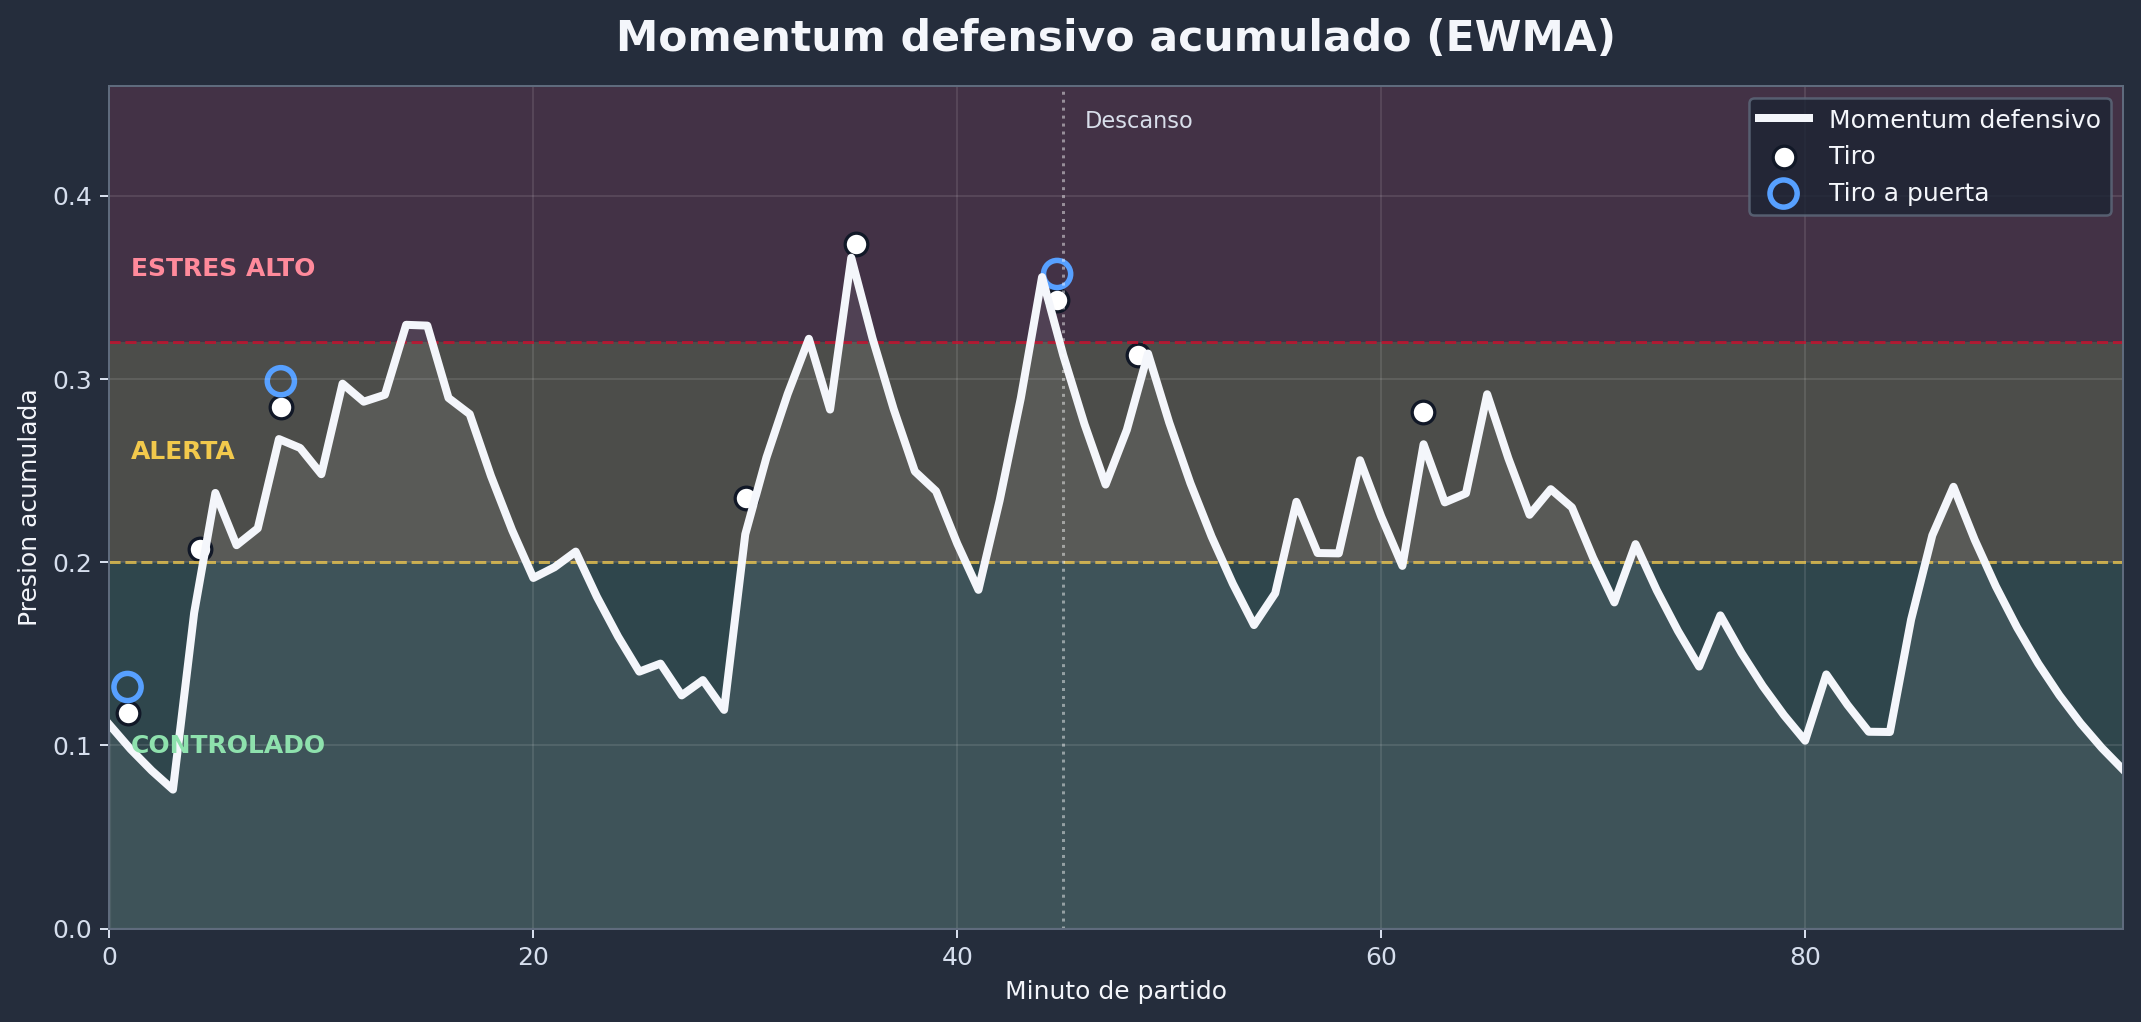
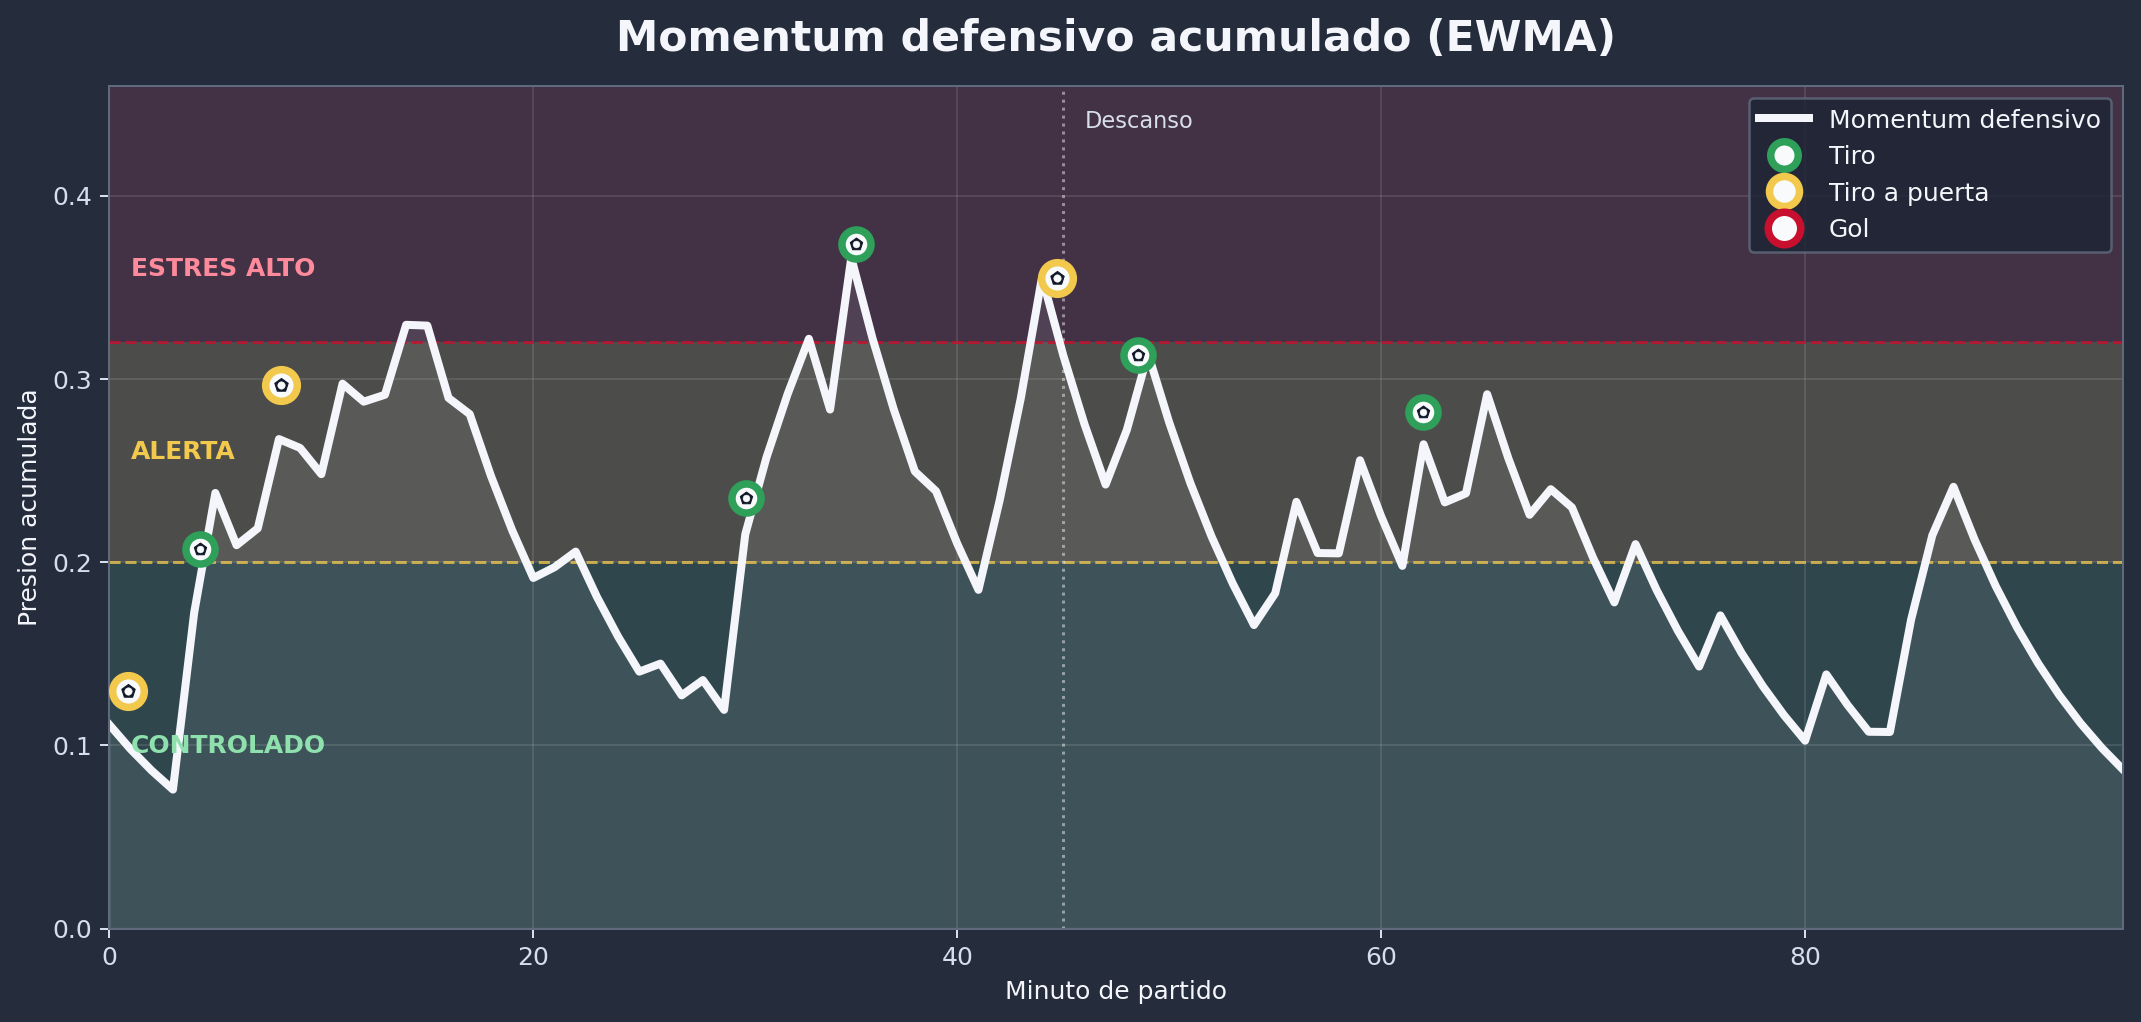
Corregir tramos y eventos del momentum

diff --git a/app/streamlit_app.py b/app/streamlit_app.py
@@ -7273,7 +7273,7 @@ def _chronology_windows(df: pd.DataFrame) -> pd.DataFrame:
     bins = [0, 15, 30, 45, 60, 75, 90, 120]
     labels = ["0-15", "16-30", "31-45", "46-60", "61-75", "76-90", "90+"]
     tmp = df.copy()
-    tmp["tramo"] = pd.cut(tmp["minuto_partido"], bins=bins, labels=labels, include_lowest=True)
+    tmp["tramo"] = pd.cut(tmp["minuto_partido"], bins=bins, labels=labels, include_lowest=True, right=False)
     grouped = (
         tmp.groupby("tramo", observed=False)
         .agg(
@@ -7289,7 +7289,7 @@ def _chronology_windows(df: pd.DataFrame) -> pd.DataFrame:
     )
     timeline = _defensive_momentum_timeline(tmp)
     if not timeline.empty:
-        timeline["tramo"] = pd.cut(timeline["minuto"], bins=bins, labels=labels, include_lowest=True)
+        timeline["tramo"] = pd.cut(timeline["minuto"], bins=bins, labels=labels, include_lowest=True, right=False)
         momentum_windows = (
             timeline.groupby("tramo", observed=False)
             .agg(
@@ -7321,6 +7321,22 @@ def _dominant_value(df: pd.DataFrame, col: str) -> str:
 
 def _window_interval(window: pd.Series) -> tuple[float, float, str]:
     tramo = str(window.get("tramo", "-"))
+    football_windows = {
+        "0-15": (0.0, 15.0),
+        "16-30": (15.0, 30.0),
+        "31-45": (30.0, 45.0),
+        "46-60": (45.0, 60.0),
+        "61-75": (60.0, 75.0),
+        "76-90": (75.0, 90.0),
+        "90+": (90.0, 120.0),
+    }
+    if tramo in football_windows:
+        start, end = football_windows[tramo]
+        return start, end, tramo
+    if tramo.endswith("+"):
+        start_txt = tramo[:-1].strip()
+        start = float(start_txt) if start_txt else 90.0
+        return start, 120.0, tramo
     if "-" not in tramo:
         return 0.0, 120.0, tramo
     start_txt, end_txt = tramo.split("-", 1)
@@ -7405,11 +7421,7 @@ def _render_critical_window_card(df: pd.DataFrame, windows: pd.DataFrame) -> pd.
     if df.empty or windows.empty:
         return None
     top = windows.sort_values("stress", ascending=False).iloc[0]
-    tramo = str(top["tramo"])
-    start_txt = tramo.split("-")[0].replace("+", "")
-    end_txt = tramo.split("-")[1] if "-" in tramo else "120"
-    start = float(start_txt)
-    end = 120.0 if end_txt.endswith("+") else float(end_txt)
+    start, end, tramo = _window_interval(top)
     part = df[df["minuto_partido"].between(start, end, inclusive="left")].copy()
     pattern_txt = _dominant_value(part, "tipologia")
     lane_txt = _dominant_value(part, "carril")
@@ -7475,9 +7487,7 @@ def _plot_defensive_momentum(df: pd.DataFrame, critical: pd.Series | None):
     fig.add_annotation(x=1, y=(MOMENTUM_ALERT_THRESHOLD + MOMENTUM_STRESS_THRESHOLD) / 2, text="ALERTA", showarrow=False, font=dict(color="#f2c94c", size=11), bgcolor="rgba(32,37,50,0.54)")
     fig.add_annotation(x=1, y=min(y_upper - 0.025, MOMENTUM_STRESS_THRESHOLD + 0.035), text="ESTRES ALTO", showarrow=False, font=dict(color="#ff8a9b", size=11), bgcolor="rgba(32,37,50,0.54)")
     if critical is not None and "tramo" in critical:
-        tramo = str(critical["tramo"])
-        start = float(tramo.split("-")[0].replace("+", ""))
-        end = 120.0 if "+" in tramo else float(tramo.split("-")[1])
+        start, end, _ = _window_interval(critical)
         fig.add_vrect(x0=start, x1=end, fillcolor="rgba(200,16,46,0.08)", line_width=0, layer="below")
     fig.add_trace(
         go.Scatter(
@@ -7491,26 +7501,44 @@ def _plot_defensive_momentum(df: pd.DataFrame, critical: pd.Series | None):
             name="Momentum defensivo",
         )
     )
+    def _event_flag(column: str) -> pd.Series:
+        return pd.to_numeric(df.get(column, pd.Series(0, index=df.index)), errors="coerce").fillna(0).gt(0)
+
+    goal_mask = _event_flag("es_gol")
+    shot_on_target_mask = _event_flag("tipo_finalizacion_tiro_puerta") & ~goal_mask
+    shot_mask = _event_flag("tipo_finalizacion_tiro") & ~shot_on_target_mask & ~goal_mask
     marker_specs = [
-        ("tipo_finalizacion_tiro", "Tiro", "circle", "#ffffff", 10),
-        ("tipo_finalizacion_tiro_puerta", "Tiro a puerta", "diamond", "#57a0ff", 12),
-        ("es_gol", "Gol", "star", "#ff405c", 15),
+        ("Tiro", shot_mask, "#2ea05a", 22, 0.026),
+        ("Tiro a puerta", shot_on_target_mask, "#f2c94c", 24, 0.034),
+        ("Gol", goal_mask, "#c8102e", 26, 0.042),
     ]
-    for col, label, symbol, color, size in marker_specs:
-        if col not in df.columns:
-            continue
-        events = df[pd.to_numeric(df[col], errors="coerce").fillna(0).gt(0)].copy()
+    for label, mask, ring_color, size, y_offset in marker_specs:
+        events = df[mask].copy()
         if events.empty:
-            continue
-        y_vals = np.interp(events["minuto_partido"], timeline["minuto"], timeline["momentum"])
+            x_vals = [None]
+            y_vals = [None]
+            text_vals = [""]
+        else:
+            x_vals = events["minuto_partido"]
+            y_vals = np.interp(events["minuto_partido"], timeline["minuto"], timeline["momentum"]) + y_offset
+            text_vals = ["⚽"] * len(events)
         fig.add_trace(
             go.Scatter(
-                x=events["minuto_partido"],
-                y=y_vals + 0.035,
-                mode="markers",
-                marker=dict(symbol=symbol, color=color, size=size, line=dict(color="#202532", width=1.2)),
+                x=x_vals,
+                y=y_vals,
+                mode="markers+text",
+                marker=dict(
+                    symbol="circle",
+                    color="#f8fafc",
+                    size=size,
+                    line=dict(color=ring_color, width=4),
+                ),
+                text=text_vals,
+                textfont=dict(size=max(10, size - 8), color="#111827"),
+                textposition="middle center",
                 name=label,
                 hovertemplate=f"{label}<br>Minuto %{{x:.1f}}<extra></extra>",
+                showlegend=True,
             )
         )
     fig.update_layout(title="Curva de momentum defensivo (EWMA)", height=420, showlegend=True, legend=dict(orientation="h", y=-0.22, x=0))

diff --git a/src/tfg_analysis/visualization/dashboard.py b/src/tfg_analysis/visualization/dashboard.py
@@ -6,6 +6,7 @@ from collections.abc import Mapping
 import matplotlib.pyplot as plt
 import matplotlib.colors as mcolors
 import matplotlib.patches as patches
+from matplotlib.lines import Line2D
 import numpy as np
 import pandas as pd
 from scipy.ndimage import gaussian_filter
@@ -332,24 +333,55 @@ def plot_evolucion_temporal_con_tiros(df_def_dinamico: pd.DataFrame, secuencias:
     ax.fill_between(timeline["minuto"], timeline["momentum"], 0, color="#f4f6fb", alpha=0.08)
     ax.plot(timeline["minuto"], timeline["momentum"], color="#f4f6fb", lw=3.2, label="Momentum defensivo")
     if not df.empty:
-        tiros = df[pd.to_numeric(df.get("tipo_finalizacion_tiro", pd.Series(0, index=df.index)), errors="coerce").fillna(0).gt(0)].copy()
-        if not tiros.empty:
-            minuto_tiro = np.where(
-                tiros.get("match_time_tiro_oficial", pd.Series(np.nan, index=tiros.index)).notna(),
-                tiros["match_time_tiro_oficial"] / 60000,
-                tiros["minuto_partido"],
+        def _event_flag(column: str) -> pd.Series:
+            return pd.to_numeric(df.get(column, pd.Series(0, index=df.index)), errors="coerce").fillna(0).gt(0)
+
+        def _event_minutes(events: pd.DataFrame) -> np.ndarray:
+            official = events.get("match_time_tiro_oficial", pd.Series(np.nan, index=events.index))
+            return np.where(official.notna(), official / 60000, events["minuto_partido"])
+
+        def _draw_ball_events(events: pd.DataFrame, ring_color: str, size: int, y_offset: float):
+            if events.empty:
+                return
+            minutes = _event_minutes(events)
+            y_vals = np.interp(minutes, timeline["minuto"], timeline["momentum"]) + y_offset
+            ax.scatter(
+                minutes,
+                y_vals,
+                s=size,
+                marker="o",
+                facecolors="#f8fafc",
+                edgecolors=ring_color,
+                linewidths=3.0,
+                zorder=5,
             )
-            y_vals = np.interp(minuto_tiro, timeline["minuto"], timeline["momentum"])
-            ax.scatter(minuto_tiro, y_vals + 0.018, s=82, facecolors="white", edgecolors="#111827", linewidths=1.3, label="Tiro")
-            tiros_pt = tiros[pd.to_numeric(tiros.get("tipo_finalizacion_tiro_puerta", pd.Series(0, index=tiros.index)), errors="coerce").fillna(0).gt(0)]
-            if not tiros_pt.empty:
-                minuto_pt = np.where(
-                    tiros_pt.get("match_time_tiro_oficial", pd.Series(np.nan, index=tiros_pt.index)).notna(),
-                    tiros_pt["match_time_tiro_oficial"] / 60000,
-                    tiros_pt["minuto_partido"],
-                )
-                y_pt = np.interp(minuto_pt, timeline["minuto"], timeline["momentum"])
-                ax.scatter(minuto_pt, y_pt + 0.032, s=118, facecolors="none", edgecolors="#57a0ff", linewidths=2.2, label="Tiro a puerta")
+            ax.scatter(
+                minutes,
+                y_vals,
+                s=size * 0.20,
+                marker="p",
+                facecolors="#111827",
+                edgecolors="#111827",
+                linewidths=0.4,
+                zorder=6,
+            )
+            ax.scatter(
+                minutes,
+                y_vals,
+                s=size * 0.055,
+                marker="o",
+                facecolors="#f8fafc",
+                edgecolors="#f8fafc",
+                linewidths=0.2,
+                zorder=7,
+            )
+
+        goal_mask = _event_flag("es_gol")
+        shot_on_target_mask = _event_flag("tipo_finalizacion_tiro_puerta") & ~goal_mask
+        shot_mask = _event_flag("tipo_finalizacion_tiro") & ~shot_on_target_mask & ~goal_mask
+        _draw_ball_events(df[shot_mask].copy(), "#2ea05a", 135, 0.018)
+        _draw_ball_events(df[shot_on_target_mask].copy(), "#f2c94c", 160, 0.030)
+        _draw_ball_events(df[goal_mask].copy(), "#c8102e", 190, 0.042)
     ax.text(1, MOMENTUM_ALERT_THRESHOLD / 2, "CONTROLADO", color="#8ee1ad", fontsize=10, weight="bold", va="center")
     ax.text(1, (MOMENTUM_ALERT_THRESHOLD + MOMENTUM_STRESS_THRESHOLD) / 2, "ALERTA", color="#f2c94c", fontsize=10, weight="bold", va="center")
     ax.text(1, min(ymax - 0.02, MOMENTUM_STRESS_THRESHOLD + 0.04), "ESTRES ALTO", color="#ff8a9b", fontsize=10, weight="bold", va="center")
@@ -364,7 +396,13 @@ def plot_evolucion_temporal_con_tiros(df_def_dinamico: pd.DataFrame, secuencias:
     ax.grid(color="white", alpha=0.10)
     for spine in ax.spines.values():
         spine.set_color("#5f6b7d")
-    legend = ax.legend(loc="upper right", frameon=True)
+    legend_handles = [
+        Line2D([0], [0], color="#f4f6fb", lw=3.2, label="Momentum defensivo"),
+        Line2D([0], [0], marker="o", linestyle="None", markerfacecolor="#f8fafc", markeredgecolor="#2ea05a", markeredgewidth=3, markersize=11, label="Tiro"),
+        Line2D([0], [0], marker="o", linestyle="None", markerfacecolor="#f8fafc", markeredgecolor="#f2c94c", markeredgewidth=3, markersize=12, label="Tiro a puerta"),
+        Line2D([0], [0], marker="o", linestyle="None", markerfacecolor="#f8fafc", markeredgecolor="#c8102e", markeredgewidth=3, markersize=13, label="Gol"),
+    ]
+    legend = ax.legend(handles=legend_handles, loc="upper right", frameon=True)
     legend.get_frame().set_facecolor("#1b2433")
     legend.get_frame().set_edgecolor("#5f6b7d")
     for text in legend.get_texts():
